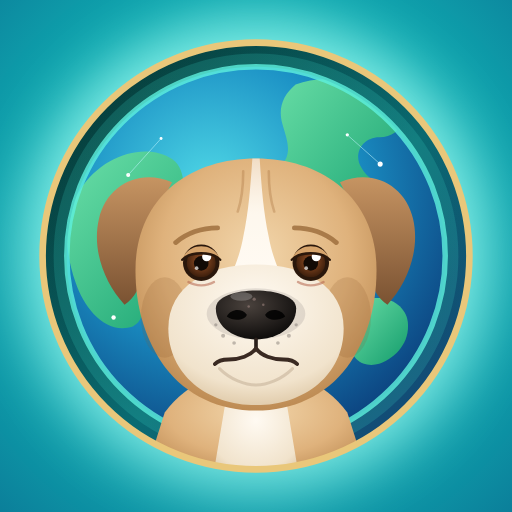
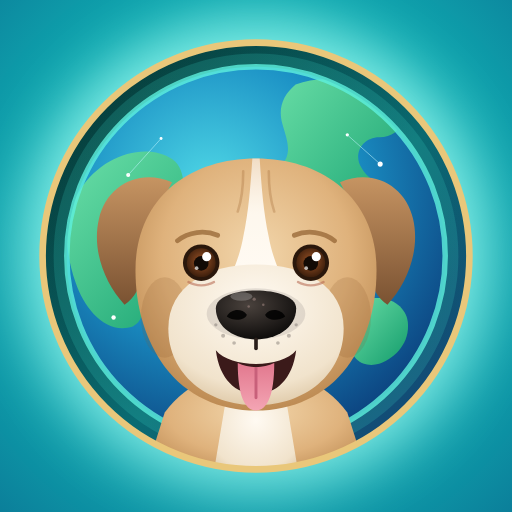
Georges joyeux, lien Qui je suis
Claude-Session: https://claude.ai/code/session_01GPhnbT6sB7eCovgvqE4MbN

Changed region(s): [[0.4062, 0.6875, 0.5938, 0.8125], [0.5625, 0.4375, 0.6562, 0.5], [0.3438, 0.4375, 0.4375, 0.5]]

diff --git a/index.html b/index.html
@@ -6,12 +6,12 @@
 <meta name="apple-mobile-web-app-status-bar-style" content="default">
 <meta name="theme-color" content="#0a8379">
 <meta name="robots" content="noindex">
-<link rel="apple-touch-icon" sizes="180x180" href="icon.png?v=6">
-<link rel="icon" href="icon-512.png?v=6">
+<link rel="apple-touch-icon" sizes="180x180" href="icon.png?v=7">
+<link rel="icon" href="icon-512.png?v=7">
 <link rel="manifest" href="manifest.json">
 <meta http-equiv="Cache-Control" content="no-cache">
 <style>.gate{display:none!important}[hidden]{display:none!important}</style>
-<script>(function(){var B="1792438034";function chk(){try{fetch("version.json?t="+Date.now(),{cache:"no-store"}).then(function(r){return r.json()}).then(function(j){if(j&&j.v&&j.v!==B){var k="gv-reload";try{if(sessionStorage.getItem(k)===j.v)return;sessionStorage.setItem(k,j.v)}catch(e){}location.replace(location.pathname+"?v="+j.v)}}).catch(function(){})}catch(e){}}chk();document.addEventListener("visibilitychange",function(){if(document.visibilityState==="visible")chk()});})();</script>
+<script>(function(){var B="1792438171";function chk(){try{fetch("version.json?t="+Date.now(),{cache:"no-store"}).then(function(r){return r.json()}).then(function(j){if(j&&j.v&&j.v!==B){var k="gv-reload";try{if(sessionStorage.getItem(k)===j.v)return;sessionStorage.setItem(k,j.v)}catch(e){}location.replace(location.pathname+"?v="+j.v)}}).catch(function(){})}catch(e){}}chk();document.addEventListener("visibilitychange",function(){if(document.visibilityState==="visible")chk()});})();</script>
 <title>Georges</title>
 <link rel="stylesheet" href="https://fonts.googleapis.com/css2?family=Bricolage+Grotesque:wght@500;700&family=Figtree:wght@400;500;600&display=swap">
 <style>
@@ -1123,7 +1123,7 @@ const MEDITS=[
  ["Méditation du soir","Pour t'apaiser avant de dormir","https://youtu.be/kvnQ5AGAM6A"],
  ["Méditation de la lune","Pleine lune et nouvelle lune","https://youtu.be/fBKE5fzzl3Q"],
  ["Soin énergétique : alignement et manifestation","Sur YouTube","https://www.youtube.com/watch?v=eqF4-QK3p3I"],
- ["Qui je suis","Ta séance pour te retrouver",""],
+ ["Qui je suis","Ta séance pour te retrouver","https://youtu.be/3_lAj-ckL8Q"],
  ["Soin énergétique : la bulle de protection","",""],
  ["Soin énergétique pour les animaux","",""],
  ["Enfants calmes","Pour apaiser les plus petits",""]];
@@ -1392,14 +1392,14 @@ function gsvg(mood){const V={happy:`<path d="M50 170c13-17 31-24 50-24s37 7 50 2
 <path d="M52 124c0-23 21-35 48-35s48 12 48 35c0 25-21 42-48 42s-48-17-48-42z" fill="url(#gMuz)"/>
 <ellipse cx="100" cy="116" rx="27" ry="14" fill="#8d8680" opacity=".22"/>
 <g fill="#6a625c" opacity=".4"><circle cx="82" cy="128" r="1.1"/><circle cx="88" cy="132" r="1"/><circle cx="118" cy="128" r="1.1"/><circle cx="112" cy="132" r="1"/><circle cx="78" cy="122" r=".9"/><circle cx="122" cy="122" r=".9"/></g>
-<path d="M56 77c6-5 14-8 23-8M144 77c-6-5-14-8-23-8" stroke="#9a6a3a" stroke-width="2.6" fill="none" stroke-linecap="round" opacity=".8"/>
-<circle cx="70" cy="88" r="10" fill="#2a170b"/><circle cx="70" cy="88" r="7.9" fill="url(#gIris)"/><circle cx="70" cy="88.4" r="4" fill="#120a05"/><circle cx="73" cy="84.7" r="2.5" fill="#fff"/><circle cx="67.5" cy="91" r="1" fill="#fff" opacity=".7"/><path d="M59.4 86.5C63 76.5 77 76.5 80.6 86.5C76 81.8 64 81.8 59.4 86.5z" fill="#d6a46c"/><path d="M59.6 86.4C64 81.6 76 81.6 80.4 86.4" stroke="#2a170b" stroke-width="1.3" fill="none" stroke-linecap="round"/><path d="M63 98.6c4 2.4 10 2.4 14 0" stroke="#b5654c" stroke-width="1.3" fill="none" stroke-linecap="round" opacity=".55"/><circle cx="130" cy="88" r="10" fill="#2a170b"/><circle cx="130" cy="88" r="7.9" fill="url(#gIris)"/><circle cx="130" cy="88.4" r="4" fill="#120a05"/><circle cx="133" cy="84.7" r="2.5" fill="#fff"/><circle cx="127.5" cy="91" r="1" fill="#fff" opacity=".7"/><path d="M119.4 86.5C123 76.5 137 76.5 140.6 86.5C136 81.8 124 81.8 119.4 86.5z" fill="#d6a46c"/><path d="M119.6 86.4C124 81.6 136 81.6 140.4 86.4" stroke="#2a170b" stroke-width="1.3" fill="none" stroke-linecap="round"/><path d="M123 98.6c4 2.4 10 2.4 14 0" stroke="#b5654c" stroke-width="1.3" fill="none" stroke-linecap="round" opacity=".55"/>
+<path d="M57 76c6-5 15-6 22-3M143 76c-6-5-15-6-22-3" stroke="#9a6a3a" stroke-width="2.6" fill="none" stroke-linecap="round" opacity=".8"/>
+<circle cx="70" cy="88" r="10" fill="#2a170b"/><circle cx="70" cy="88" r="7.9" fill="url(#gIris)"/><circle cx="70" cy="88.4" r="4" fill="#120a05"/><circle cx="73" cy="84.7" r="2.5" fill="#fff"/><circle cx="67.5" cy="91" r="1" fill="#fff" opacity=".7"/><path d="M63 98.6c4 2.4 10 2.4 14 0" stroke="#b5654c" stroke-width="1.3" fill="none" stroke-linecap="round" opacity=".55"/><circle cx="130" cy="88" r="10" fill="#2a170b"/><circle cx="130" cy="88" r="7.9" fill="url(#gIris)"/><circle cx="130" cy="88.4" r="4" fill="#120a05"/><circle cx="133" cy="84.7" r="2.5" fill="#fff"/><circle cx="127.5" cy="91" r="1" fill="#fff" opacity=".7"/><path d="M123 98.6c4 2.4 10 2.4 14 0" stroke="#b5654c" stroke-width="1.3" fill="none" stroke-linecap="round" opacity=".55"/>
 <path d="M78 113c0-13 44-13 44 0 0 11-11 17-22 17s-22-6-22-17z" fill="url(#gNose)"/>
 <ellipse cx="92" cy="106.5" rx="6" ry="2.3" fill="#fff" opacity=".22"/>
 <path d="M84 117.5c2-4 8-5 11-1-1 3-7 4-11 1zM116 117.5c-2-4-8-5-11-1 1 3 7 4 11 1z" fill="#000" opacity=".85"/>
 <g fill="#a48a84" opacity=".55"><circle cx="99" cy="108" r=".9"/><circle cx="104" cy="111" r=".7"/><circle cx="96" cy="112" r=".7"/></g>
 <path d="M100 130v5" stroke="#2a1f1a" stroke-width="2" stroke-linecap="round"/>
-<path d="M100 135c-3 4-9 6-15 6-4 0-6 .8-7.5 2.5M100 135c3 4 9 6 15 6 4 0 6 .8 7.5 2.5" stroke="#3a2a22" stroke-width="2.1" fill="none" stroke-linecap="round" stroke-linejoin="round"/><path d="M80 146c6 6 14 9 20 9s14-3 20-9" stroke="#cdbba3" stroke-width="1.6" fill="none" stroke-linecap="round" opacity=".7"/>`,hungry:`<path d="M50 170c13-17 31-24 50-24s37 7 50 24l12 38H38z" fill="url(#gFur)"/>
+<path d="M100 135c-3 6-11 8-18 4-2-1-3-3-3.5-5M100 135c3 6 11 8 18 4 2-1 3-3 3.5-5" stroke="#3a2a22" stroke-width="2.2" fill="none" stroke-linecap="round"/><path d="M80 137c6 9 34 9 40 0" stroke="#3a2a22" stroke-width="2.2" fill="none" stroke-linecap="round" opacity=".0"/>`,hungry:`<path d="M50 170c13-17 31-24 50-24s37 7 50 24l12 38H38z" fill="url(#gFur)"/>
 <path d="M84 160c6 8 26 8 32 0l8 48H76z" fill="url(#gMuz)"/>
 <path d="M54 44C36 36 18 46 14 64c-4 17 3 35 14 47 5-3 9-10 11-19 3-15 6-31 15-48z" fill="url(#gEar)"/>
 <path d="M146 44c18-8 36 2 40 20 4 17-3 35-14 47-5-3-9-10-11-19-3-15-6-31-15-48z" fill="url(#gEar)"/>
@@ -1428,14 +1428,14 @@ function gsvg(mood){const V={happy:`<path d="M50 170c13-17 31-24 50-24s37 7 50 2
 <path d="M52 124c0-23 21-35 48-35s48 12 48 35c0 25-21 42-48 42s-48-17-48-42z" fill="url(#gMuz)"/>
 <ellipse cx="100" cy="116" rx="27" ry="14" fill="#8d8680" opacity=".22"/>
 <g fill="#6a625c" opacity=".4"><circle cx="82" cy="128" r="1.1"/><circle cx="88" cy="132" r="1"/><circle cx="118" cy="128" r="1.1"/><circle cx="112" cy="132" r="1"/><circle cx="78" cy="122" r=".9"/><circle cx="122" cy="122" r=".9"/></g>
-<path d="M56 77c6-5 14-8 23-8M144 77c-6-5-14-8-23-8" stroke="#9a6a3a" stroke-width="2.6" fill="none" stroke-linecap="round" opacity=".8"/>
+<path d="M57 76c6-5 15-6 22-3M143 76c-6-5-15-6-22-3" stroke="#9a6a3a" stroke-width="2.6" fill="none" stroke-linecap="round" opacity=".8"/>
 <path d="M60 89c5 5 15 5 20 0M120 89c5 5 15 5 20 0" stroke="#3a2212" stroke-width="3" fill="none" stroke-linecap="round"/>
 <path d="M78 113c0-13 44-13 44 0 0 11-11 17-22 17s-22-6-22-17z" fill="url(#gNose)"/>
 <ellipse cx="92" cy="106.5" rx="6" ry="2.3" fill="#fff" opacity=".22"/>
 <path d="M84 117.5c2-4 8-5 11-1-1 3-7 4-11 1zM116 117.5c-2-4-8-5-11-1 1 3 7 4 11 1z" fill="#000" opacity=".85"/>
 <g fill="#a48a84" opacity=".55"><circle cx="99" cy="108" r=".9"/><circle cx="104" cy="111" r=".7"/><circle cx="96" cy="112" r=".7"/></g>
 <path d="M100 130v5" stroke="#2a1f1a" stroke-width="2" stroke-linecap="round"/>
-<path d="M100 135c-3 4-9 6-15 6-4 0-6 .8-7.5 2.5M100 135c3 4 9 6 15 6 4 0 6 .8 7.5 2.5" stroke="#3a2a22" stroke-width="2.1" fill="none" stroke-linecap="round" stroke-linejoin="round"/><path d="M80 146c6 6 14 9 20 9s14-3 20-9" stroke="#cdbba3" stroke-width="1.6" fill="none" stroke-linecap="round" opacity=".7"/>`};return U(`<svg viewBox="0 0 200 200" aria-hidden="true"><defs>
+<path d="M100 135c-3 6-11 8-18 4-2-1-3-3-3.5-5M100 135c3 6 11 8 18 4 2-1 3-3 3.5-5" stroke="#3a2a22" stroke-width="2.2" fill="none" stroke-linecap="round"/><path d="M80 137c6 9 34 9 40 0" stroke="#3a2a22" stroke-width="2.2" fill="none" stroke-linecap="round" opacity=".0"/>`};return U(`<svg viewBox="0 0 200 200" aria-hidden="true"><defs>
 <radialGradient id="gFur" cx="50%" cy="38%" r="65%"><stop offset="0" stop-color="#f2d6ab"/><stop offset=".6" stop-color="#dfb27c"/><stop offset="1" stop-color="#b9864e"/></radialGradient>
 <linearGradient id="gEar" x1="0" y1="0" x2="0" y2="1"><stop offset="0" stop-color="#c69462"/><stop offset="1" stop-color="#7a5232"/></linearGradient>
 <radialGradient id="gMuz" cx="50%" cy="30%" r="75%"><stop offset="0" stop-color="#fffaf2"/><stop offset=".75" stop-color="#f1e3cc"/><stop offset="1" stop-color="#dcc5a2"/></radialGradient>
@@ -1629,14 +1629,14 @@ const GEORGES_SVG=`<svg viewBox="0 0 200 200" aria-hidden="true"><defs>
 <path d="M52 124c0-23 21-35 48-35s48 12 48 35c0 25-21 42-48 42s-48-17-48-42z" fill="url(#gMuz)"/>
 <ellipse cx="100" cy="116" rx="27" ry="14" fill="#8d8680" opacity=".22"/>
 <g fill="#6a625c" opacity=".4"><circle cx="82" cy="128" r="1.1"/><circle cx="88" cy="132" r="1"/><circle cx="118" cy="128" r="1.1"/><circle cx="112" cy="132" r="1"/><circle cx="78" cy="122" r=".9"/><circle cx="122" cy="122" r=".9"/></g>
-<path d="M56 77c6-5 14-8 23-8M144 77c-6-5-14-8-23-8" stroke="#9a6a3a" stroke-width="2.6" fill="none" stroke-linecap="round" opacity=".8"/>
-<circle cx="70" cy="88" r="10" fill="#2a170b"/><circle cx="70" cy="88" r="7.9" fill="url(#gIris)"/><circle cx="70" cy="88.4" r="4" fill="#120a05"/><circle cx="73" cy="84.7" r="2.5" fill="#fff"/><circle cx="67.5" cy="91" r="1" fill="#fff" opacity=".7"/><path d="M59.4 86.5C63 76.5 77 76.5 80.6 86.5C76 81.8 64 81.8 59.4 86.5z" fill="#d6a46c"/><path d="M59.6 86.4C64 81.6 76 81.6 80.4 86.4" stroke="#2a170b" stroke-width="1.3" fill="none" stroke-linecap="round"/><path d="M63 98.6c4 2.4 10 2.4 14 0" stroke="#b5654c" stroke-width="1.3" fill="none" stroke-linecap="round" opacity=".55"/><circle cx="130" cy="88" r="10" fill="#2a170b"/><circle cx="130" cy="88" r="7.9" fill="url(#gIris)"/><circle cx="130" cy="88.4" r="4" fill="#120a05"/><circle cx="133" cy="84.7" r="2.5" fill="#fff"/><circle cx="127.5" cy="91" r="1" fill="#fff" opacity=".7"/><path d="M119.4 86.5C123 76.5 137 76.5 140.6 86.5C136 81.8 124 81.8 119.4 86.5z" fill="#d6a46c"/><path d="M119.6 86.4C124 81.6 136 81.6 140.4 86.4" stroke="#2a170b" stroke-width="1.3" fill="none" stroke-linecap="round"/><path d="M123 98.6c4 2.4 10 2.4 14 0" stroke="#b5654c" stroke-width="1.3" fill="none" stroke-linecap="round" opacity=".55"/>
+<path d="M57 76c6-5 15-6 22-3M143 76c-6-5-15-6-22-3" stroke="#9a6a3a" stroke-width="2.6" fill="none" stroke-linecap="round" opacity=".8"/>
+<circle cx="70" cy="88" r="10" fill="#2a170b"/><circle cx="70" cy="88" r="7.9" fill="url(#gIris)"/><circle cx="70" cy="88.4" r="4" fill="#120a05"/><circle cx="73" cy="84.7" r="2.5" fill="#fff"/><circle cx="67.5" cy="91" r="1" fill="#fff" opacity=".7"/><path d="M63 98.6c4 2.4 10 2.4 14 0" stroke="#b5654c" stroke-width="1.3" fill="none" stroke-linecap="round" opacity=".55"/><circle cx="130" cy="88" r="10" fill="#2a170b"/><circle cx="130" cy="88" r="7.9" fill="url(#gIris)"/><circle cx="130" cy="88.4" r="4" fill="#120a05"/><circle cx="133" cy="84.7" r="2.5" fill="#fff"/><circle cx="127.5" cy="91" r="1" fill="#fff" opacity=".7"/><path d="M123 98.6c4 2.4 10 2.4 14 0" stroke="#b5654c" stroke-width="1.3" fill="none" stroke-linecap="round" opacity=".55"/>
 <path d="M78 113c0-13 44-13 44 0 0 11-11 17-22 17s-22-6-22-17z" fill="url(#gNose)"/>
 <ellipse cx="92" cy="106.5" rx="6" ry="2.3" fill="#fff" opacity=".22"/>
 <path d="M84 117.5c2-4 8-5 11-1-1 3-7 4-11 1zM116 117.5c-2-4-8-5-11-1 1 3 7 4 11 1z" fill="#000" opacity=".85"/>
 <g fill="#a48a84" opacity=".55"><circle cx="99" cy="108" r=".9"/><circle cx="104" cy="111" r=".7"/><circle cx="96" cy="112" r=".7"/></g>
 <path d="M100 130v5" stroke="#2a1f1a" stroke-width="2" stroke-linecap="round"/>
-<path d="M100 135c-3 4-9 6-15 6-4 0-6 .8-7.5 2.5M100 135c3 4 9 6 15 6 4 0 6 .8 7.5 2.5" stroke="#3a2a22" stroke-width="2.1" fill="none" stroke-linecap="round" stroke-linejoin="round"/><path d="M80 146c6 6 14 9 20 9s14-3 20-9" stroke="#cdbba3" stroke-width="1.6" fill="none" stroke-linecap="round" opacity=".7"/></g></g><circle cx="100" cy="100" r="97" fill="none" stroke="#e9c77a" stroke-width="3"/></svg>`;
+<path d="M78 136c8 10 36 10 44 0-2 16-11 24-22 24s-20-8-22-24z" fill="#3b1a1a"/><path d="M90 143c0 18 4 26 10 26s10-8 10-26c-6 3-14 3-20 0z" fill="url(#gTongue)"/><path d="M100 146v16" stroke="#c8607a" stroke-width="1.6" stroke-linecap="round"/></g></g><circle cx="100" cy="100" r="97" fill="none" stroke="#e9c77a" stroke-width="3"/></svg>`;
 function U(v){U.n=(U.n||0)+1;const n="_"+U.n;return v.replace(/id="(g[A-Za-z]+)"/g,'id="$1'+n+'"').replace(/url\(#(g[A-Za-z]+)\)/g,"url(#$1"+n+")");}
 document.querySelectorAll(".gport").forEach(el=>el.innerHTML=U(GEORGES_SVG));
 // 30 messages de secours, dans la voix de Georges (brouillon à réécrire avec tes mots)

diff --git a/mes-proteines/index.html b/mes-proteines/index.html
@@ -1,4 +1,4 @@
-<!doctype html><html><head><meta charset=utf8><meta name="robots" content="noindex"><meta name="apple-mobile-web-app-capable" content="yes"><meta name="apple-mobile-web-app-title" content="Protéines"><link rel="apple-touch-icon" sizes="180x180" href="../icon.png?v=6"><link rel="icon" href="../icon-512.png?v=6"><meta name=viewport content="width=device-width,initial-scale=1,viewport-fit=cover"><style>:root{color-scheme:light;box-sizing:border-box;padding-top:env(safe-area-inset-top,0px);padding-bottom:env(safe-area-inset-bottom,0px)}html{scroll-padding-top:env(safe-area-inset-top,0px)}body{margin:0;padding:0;font:14px -apple-system,BlinkMacSystemFont,sans-serif;background:#fff;color:#000}img{max-width:100%}[hidden]:not([hidden=until-found i]){display:none!important}</style></head><body>
+<!doctype html><html><head><meta charset=utf8><meta name="robots" content="noindex"><meta name="apple-mobile-web-app-capable" content="yes"><meta name="apple-mobile-web-app-title" content="Protéines"><link rel="apple-touch-icon" sizes="180x180" href="../icon.png?v=7"><link rel="icon" href="../icon-512.png?v=7"><meta name=viewport content="width=device-width,initial-scale=1,viewport-fit=cover"><style>:root{color-scheme:light;box-sizing:border-box;padding-top:env(safe-area-inset-top,0px);padding-bottom:env(safe-area-inset-bottom,0px)}html{scroll-padding-top:env(safe-area-inset-top,0px)}body{margin:0;padding:0;font:14px -apple-system,BlinkMacSystemFont,sans-serif;background:#fff;color:#000}img{max-width:100%}[hidden]:not([hidden=until-found i]){display:none!important}</style></head><body>
 <title>Mes protéines du jour</title>
 <link rel="stylesheet" href="https://fonts.googleapis.com/css2?family=Bricolage+Grotesque:wght@500;700&family=Figtree:wght@400;500;600&display=swap">
 <style>
